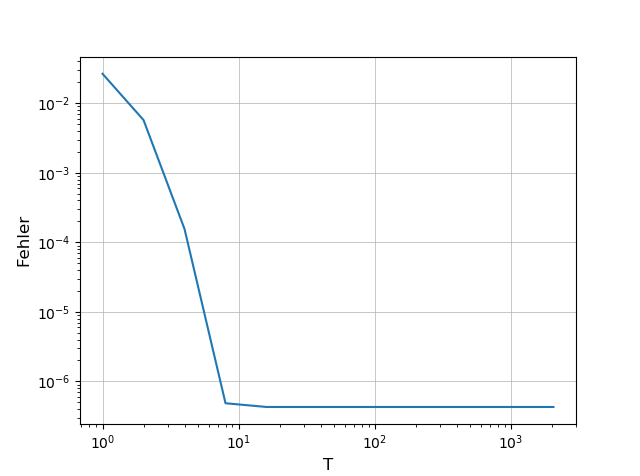
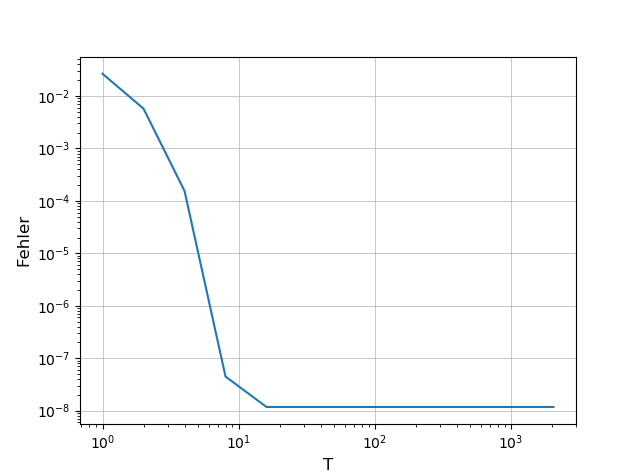
besprochene änderungen

diff --git a/latex/aufgabe1.tex b/latex/aufgabe1.tex
@@ -347,32 +347,29 @@ date=short                % Datumsformat
 			& = C_1\varepsilon_T + C_2T\varepsilon_h 
 		\end{align*}
 	\end{myproof}
-	\begin{mybeispiel}
-		\newpage
-		Man sieht nun aus \cref{fig:fehlerplott}, wobei die gerade Funktion als Vergleich dient wie sich der Fehler verhalten sollte, dass bei kleiner werdenden h sich der Fehler ab einem gewissen Wert nicht mehr ändert. Das liegt daran, dass wir das Intervall $[0,\infty)$ auf $[0,T]$ beschränken und somit auch bei Verfeinerung von h sich der Fehler nicht mehr ändert, d.h. die maximale Genauigkeit der numerischen Integration ist erreicht worden, also man ist zum Fehler von T gelangt. Dasselbe passiert auch in \cref{fig:fehlerploth}, wobei die Vergleichsfunktion aus ästhetischen Gründen weggelassen wurde, nur dass hier bei einer fixen Schrittweite, sich der Fehler ab einem gewissen T bzw. ab einem gewissem n nicht mehr ändern wird. Um das exakte Integral zu bekommen, müsste man fordern, dass h $\rightarrow $0 und T $\rightarrow \infty$ strebt, da wir aber das Intervall abschneiden und eine Quadraturformel drauf anwenden, ist die nicht möglich, und uns genügt ein minimaler Fehler. Bei verschieden Funktionen ist das einzige was passiert, dass sich der Integrationsfehler ändert und der Punkt an dem der Fehler sich nicht mehr ändert, sich nach links oder rechts verschiebt, also der Graph ändert sich nicht.  
+
 		\begin{bemerkung}
 			Damit der Fehler minimal ist, soll $\varepsilon_T \approx T\varepsilon_h$ gelten. Anders angeschrieben soll also $h \approx \sqrt{\frac{12e^{-T}}{T}}$ bzw. $n \approx \sqrt{\frac{T^{3}}{12e^{-T}}}$ erfüllt sein.
 		\end{bemerkung}
+		\newpage
 		
-		\begin{figure}[H]
-			\begin{center}
-				\includegraphics[width=0.8\textwidth]{parameterth.png}
-			\end{center}
-			\caption{Fehler abhängig von n.}
-			\label{fig:parameterth}	
-		\end{figure}
+		%\begin{figure}[H]
+		%	\begin{center}
+		%		\includegraphics[width=0.8\textwidth]{parameterth.png}
+		%	\end{center}
+		%	\caption{Fehler abhängig von n.}
+		%	\label{fig:parameterth}	
+		%\end{figure}
 		 
-	\end{mybeispiel}
-	\newpage
 		\subsection{Von T abh\"angiger Fehler}
 	Da f\"ur Funktionen $f,g$, die auf dem Intervall $[a,b]$ Riemann-integrierbar sind gilt \autocite[vgl.][271]{ana2}: 
 	\begin{align*}
-	f(x)\leq g(x): x \in [a,b]\Rightarrow \int_{a}^{b}f(x)dx \leq \int_{a}^{b}g(x)dx,
+		f(x)\leq g(x): x \in [a,b]\Rightarrow \int_{a}^{b}f(x)dx \leq \int_{a}^{b}g(x)dx,
 	\end{align*}
 	ergibt sich f\"ur den Fehler $C_1\varepsilon_T$ aus \cref{eq:trapez-fehler} f\"ur andere Gewichtsfunktionen $\omega : f(x)\omega(x) \leq f(x)e^{-x}, x \in [T,\infty)$
 	\begin{align*}
-	\abs{\int_{0}^{\infty}f(x)e^{-x}dx-\int_{0}^{T}f(x)e^{-x}dx} = \abs{\int_{T}^{\infty}f(x)e^{-x}dx} \geq \\
-	\abs{\int_{T}^{\infty}f(x)\omega(x)dx} =  \abs{\int_{0}^{\infty}f(x)\omega(x)dx-\int_{0}^{T}f(x)\omega(x)dx}
+		\abs{\int_{0}^{\infty}f(x)e^{-x}dx-\int_{0}^{T}f(x)e^{-x}dx} = \abs{\int_{T}^{\infty}f(x)e^{-x}dx} \geq \\
+		\abs{\int_{T}^{\infty}f(x)\omega(x)dx} =  \abs{\int_{0}^{\infty}f(x)\omega(x)dx-\int_{0}^{T}f(x)\omega(x)dx}
 	\end{align*}	
 	Der bei \cref{trapez} durch das Abschneiden des Intervalls $[0,\infty)$ entstehende Fehler ist also stark von der Wahl der Gewichtsfunktion abh\"angig.(\cref{fig:f-vergleich-int}) 
 	Durch die Wahl einer geeigneten Gewichtsfunktion kann die Konvergenz des Integrationsverfahrens also beschleunigt werden.
@@ -406,6 +403,8 @@ date=short                % Datumsformat
 		\caption{Fehler abhängig von T.}
 		\label{fig:fehlerploth}
 	\end{figure}
+
+	Man bemerkt in \cref{fig:fehlerploth}, dass bei verschieden Funktionen sich die Konvergenzgeschwindigkeit des Integrationsfehler ändert. 
 	
 	\subsection{Von n abh\"angiger Fehler}
 	\begin{mytheorem}\label{satz:fehler-kruemmung}
@@ -484,7 +483,7 @@ date=short                % Datumsformat
 		\caption{Fehlerplot abhängig von h.}
 		\label{fig:fehlerplott}
 	\end{figure}
-	
+	Man sieht nun aus \cref{fig:fehlerplott}, wobei die gerade Funktion als Vergleich dient wie sich der Fehler verhalten sollte, dass bei kleiner werdenden h sich der Fehler ab einem gewissen Wert nicht mehr ändert. D.h. man ist zum von T abhängigen Fehler gelangt.   
 	
 	%sebastians teil
 	\newpage
@@ -609,22 +608,22 @@ date=short                % Datumsformat
 		\end{align*}
 		Bei Betrachtung des Ausdrucks 
 		\begin{align*}
-			\sum_{j=0}^{n-1} \sum_{l=0}^{n} w_{l,n} \tau_j^2 p_j(x_k)p_j(x_l)
+			\sum_{j=0}^{n-1} \sum_{l=0}^{j+1} w_{l,n} \tau_j^2 p_j(x_k)p_j(x_l)
 		\end{align*}
 		folgt nun
 		\begin{align*}
-			\sum_{j=0}^{n-1} \sum_{l=0}^{n} w_{l,n} \tau_j^2 p_j(x_k)p_j(x_l) &= \sum_{j=0}^{n-1} \tau_j^2 p_j(x_k) \int_{0}^{\infty} p_j(x)e^{-x}dx \\
+			\sum_{j=0}^{n-1} \sum_{l=0}^{j+1} w_{l,n} \tau_j^2 p_j(x_k)p_j(x_l) &= \sum_{j=0}^{n-1} \tau_j^2 p_j(x_k) \int_{0}^{\infty} p_j(x)e^{-x}dx \\
 			& = \tau_0^2 p_0(x_k) \int_{0}^{\infty} p_0(x)e^{-x}dx + \sum_{j=1}^{n-1} \tau_j^2 p_j(x_k) \int_{0}^{\infty} p_j(x)e^{-x}dx \\
-			& = 1 + \sum_{j=1}^{n-1} \tau_j^2 p_j(x_k) * 0 \\
+			& = 1 + \sum_{j=1}^{n-1} \tau_j^2 p_j(x_k) \cdot 0 \\
 			& = 1
 		\end{align*}
 		und andererseits
 		\begin{align*}
-			\sum_{j=0}^{n-1} \sum_{l=0}^{n} w_{l,n} \tau_j^2 p_j(x_k)p_j(x_l) 
-			 &= \sum_{j=0}^{n-1} \sum_{l=0}^{n} w_{l,n} \tau_j^2 p_j(x_k)^2 \delta_{l,k}
-			 = \sum_{j=0}^{n-1} w_{k,n} \tau_j^2 p_j(x_k)^2 
-			 = w_{k,n} \sum_{j=0}^{n-1}  \tau_j^2 p_j(x_k)^2 \\
-			 &= w_{k,n}\norm{v_{k,n}}_2^2	
+			\sum_{j=0}^{n-1} \sum_{l=0}^{j+1} w_{l,n} \tau_j^2 p_j(x_k)p_j(x_l) 
+			 &= \sum_{j=0}^{n-1} \sum_{l=0}^{j+1} w_{l,n} \tau_j^2 p_j(x_k)^2 \delta_{l,k}
+			 = \sum_{j=0}^{n-1} w_{k,n} \tau_j^2 p_j(x_k)^2 \\
+			 &= w_{k,n} \sum_{j=0}^{n-1}  \tau_j^2 p_j(x_k)^2 
+			 = w_{k,n}\norm{v_{k,n}}_2^2	
 		\end{align*}
 		Also
 		\begin{align*}
@@ -681,6 +680,14 @@ date=short                % Datumsformat
 			\subcaption{Trapez vs Gau\ss quadratur}\label{fig:gauss-vs-besseretrapez}
 		\end{subfigure}
 	\caption{\"Anderungen zur Konvergenzbeschleunigung}
+	\end{figure}
+
+	\begin{figure}[H]
+		\begin{center}
+			\includegraphics[width=0.8\textwidth]{Fehlerhvergleich.png}
+		\end{center}
+		\caption{Fehler abhängig von h bei verschiedenen Gewichtsfunktionen}
+		\label{fig:fehlerhverhleich}	
 	\end{figure}
 	%abbildung trapez e^-x vs e^-x^2
 	

diff --git a/latex/fehlerhvergleich.py b/latex/fehlerhvergleich.py
@@ -1,0 +1,38 @@
+import numpy as np
+import matplotlib.pylab as plt
+
+def f(x):
+    return 1/(np.exp(x)+7)*np.exp(-x)
+
+def g(x):
+    return 1/(np.exp(x)+7)*np.exp(-x*x)
+
+def sumtrapez(t,h):
+    xs=np.arange(0,t,h)
+    fs=f(xs)
+    return h/2*(fs[0]+2*sum(fs[1:-1])+fs[-1])
+
+def sumtrapez2(t,h):
+    xs=np.arange(0,t,h)
+    fs=g(xs)
+    return h/2*(fs[0]+2*sum(fs[1:-1])+fs[-1])
+
+h=0.001
+errors =[]
+errors2 = []
+T = 2**np.arange(12)
+for t in T:
+    errors.append(abs(1/49*(7-np.log(8))-sumtrapez(t,h)))
+    errors2.append(abs(0.10014655923-sumtrapez2(t,h)))
+fig = plt.figure()
+ax = plt.subplot(111)
+ax.loglog(T,errors, label = '1/(exp(x)+7)*exp(-x)')
+ax.loglog(T,errors2, 'r--', label = '1/(exp(x)+7)*exp(-x*x)')
+ax.grid(which='major', linewidth=0.5)
+ax.set_xlabel('T', size='large')
+ax.set_ylabel('Fehler', size='large')
+chartBox = ax.get_position()
+ax.set_position([chartBox.x0, chartBox.y0, chartBox.width*0.6, chartBox.height])
+ax.legend(loc='upper center', bbox_to_anchor=(1.45, 0.8), shadow=True, ncol=1)
+plt.show()
+#plt.savefig('Fehlerploth.png', dpi=400)

diff --git a/latex/fehlerTsinx.py b/latex/fehlerTsinx.py
@@ -2,7 +2,7 @@ import numpy as np
 import matplotlib.pylab as plt
 
 def f(x):
-    return np.sin(x)/x*np.exp(-x)
+    return 1/(np.exp(x)+7)*np.exp(-x)
 
 def sumtrapez(t,h):
     xs=np.arange(0,t,h)
@@ -13,7 +13,7 @@ T=10
 errors =[]
 hs = 1/2**np.arange(15)
 for h in hs:
-    errors.append(abs(np.pi/4-sumtrapez(T,h)))
+    errors.append(abs(0.10042-sumtrapez(T,h)))
 plt.loglog(hs,errors)
 plt.loglog(hs,hs**2)
 plt.grid(which='major', linewidth=0.5)

diff --git a/latex/fehlerhsinx.py b/latex/fehlerhsinx.py
@@ -13,7 +13,7 @@ h=0.001
 errors =[]
 T = 2**np.arange(12)
 for t in T:
-    errors.append(abs(0.10042-sumtrapez(t,h)))
+    errors.append(abs(1/49*(7-np.log(8))-sumtrapez(t,h)))
 plt.loglog(T,errors)
 plt.grid(which='major', linewidth=0.5)
 plt.xlabel('T', size='large')
